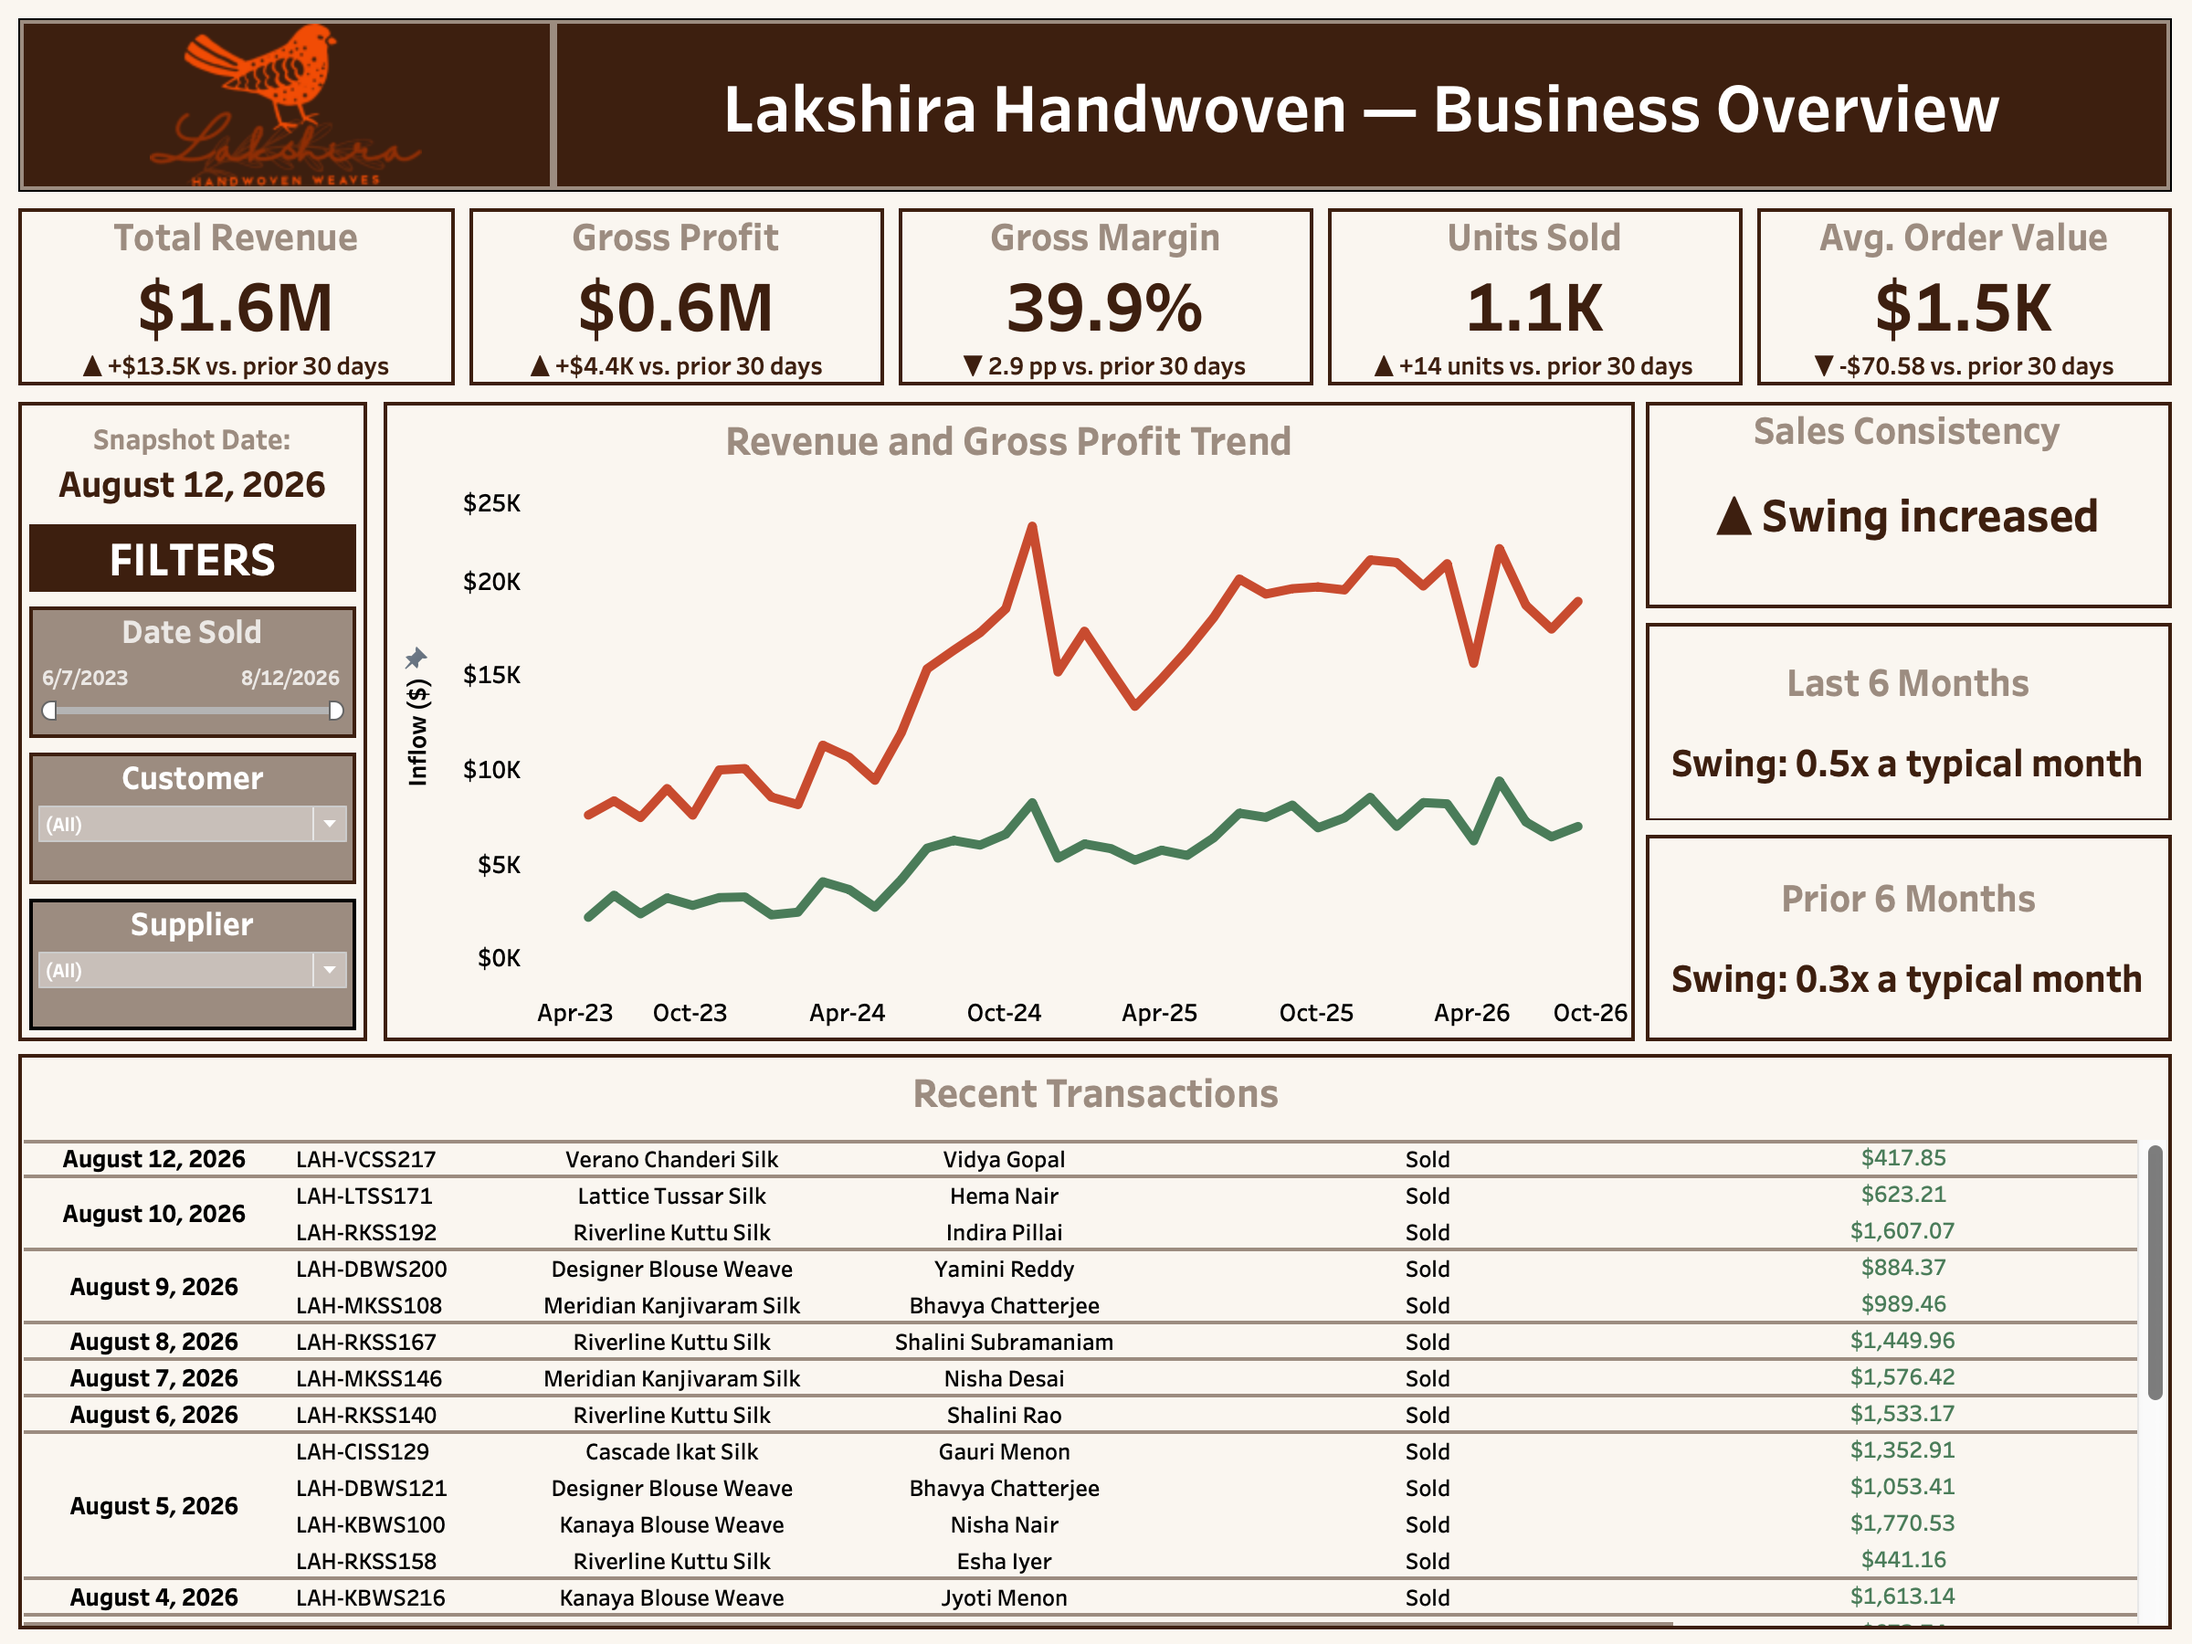
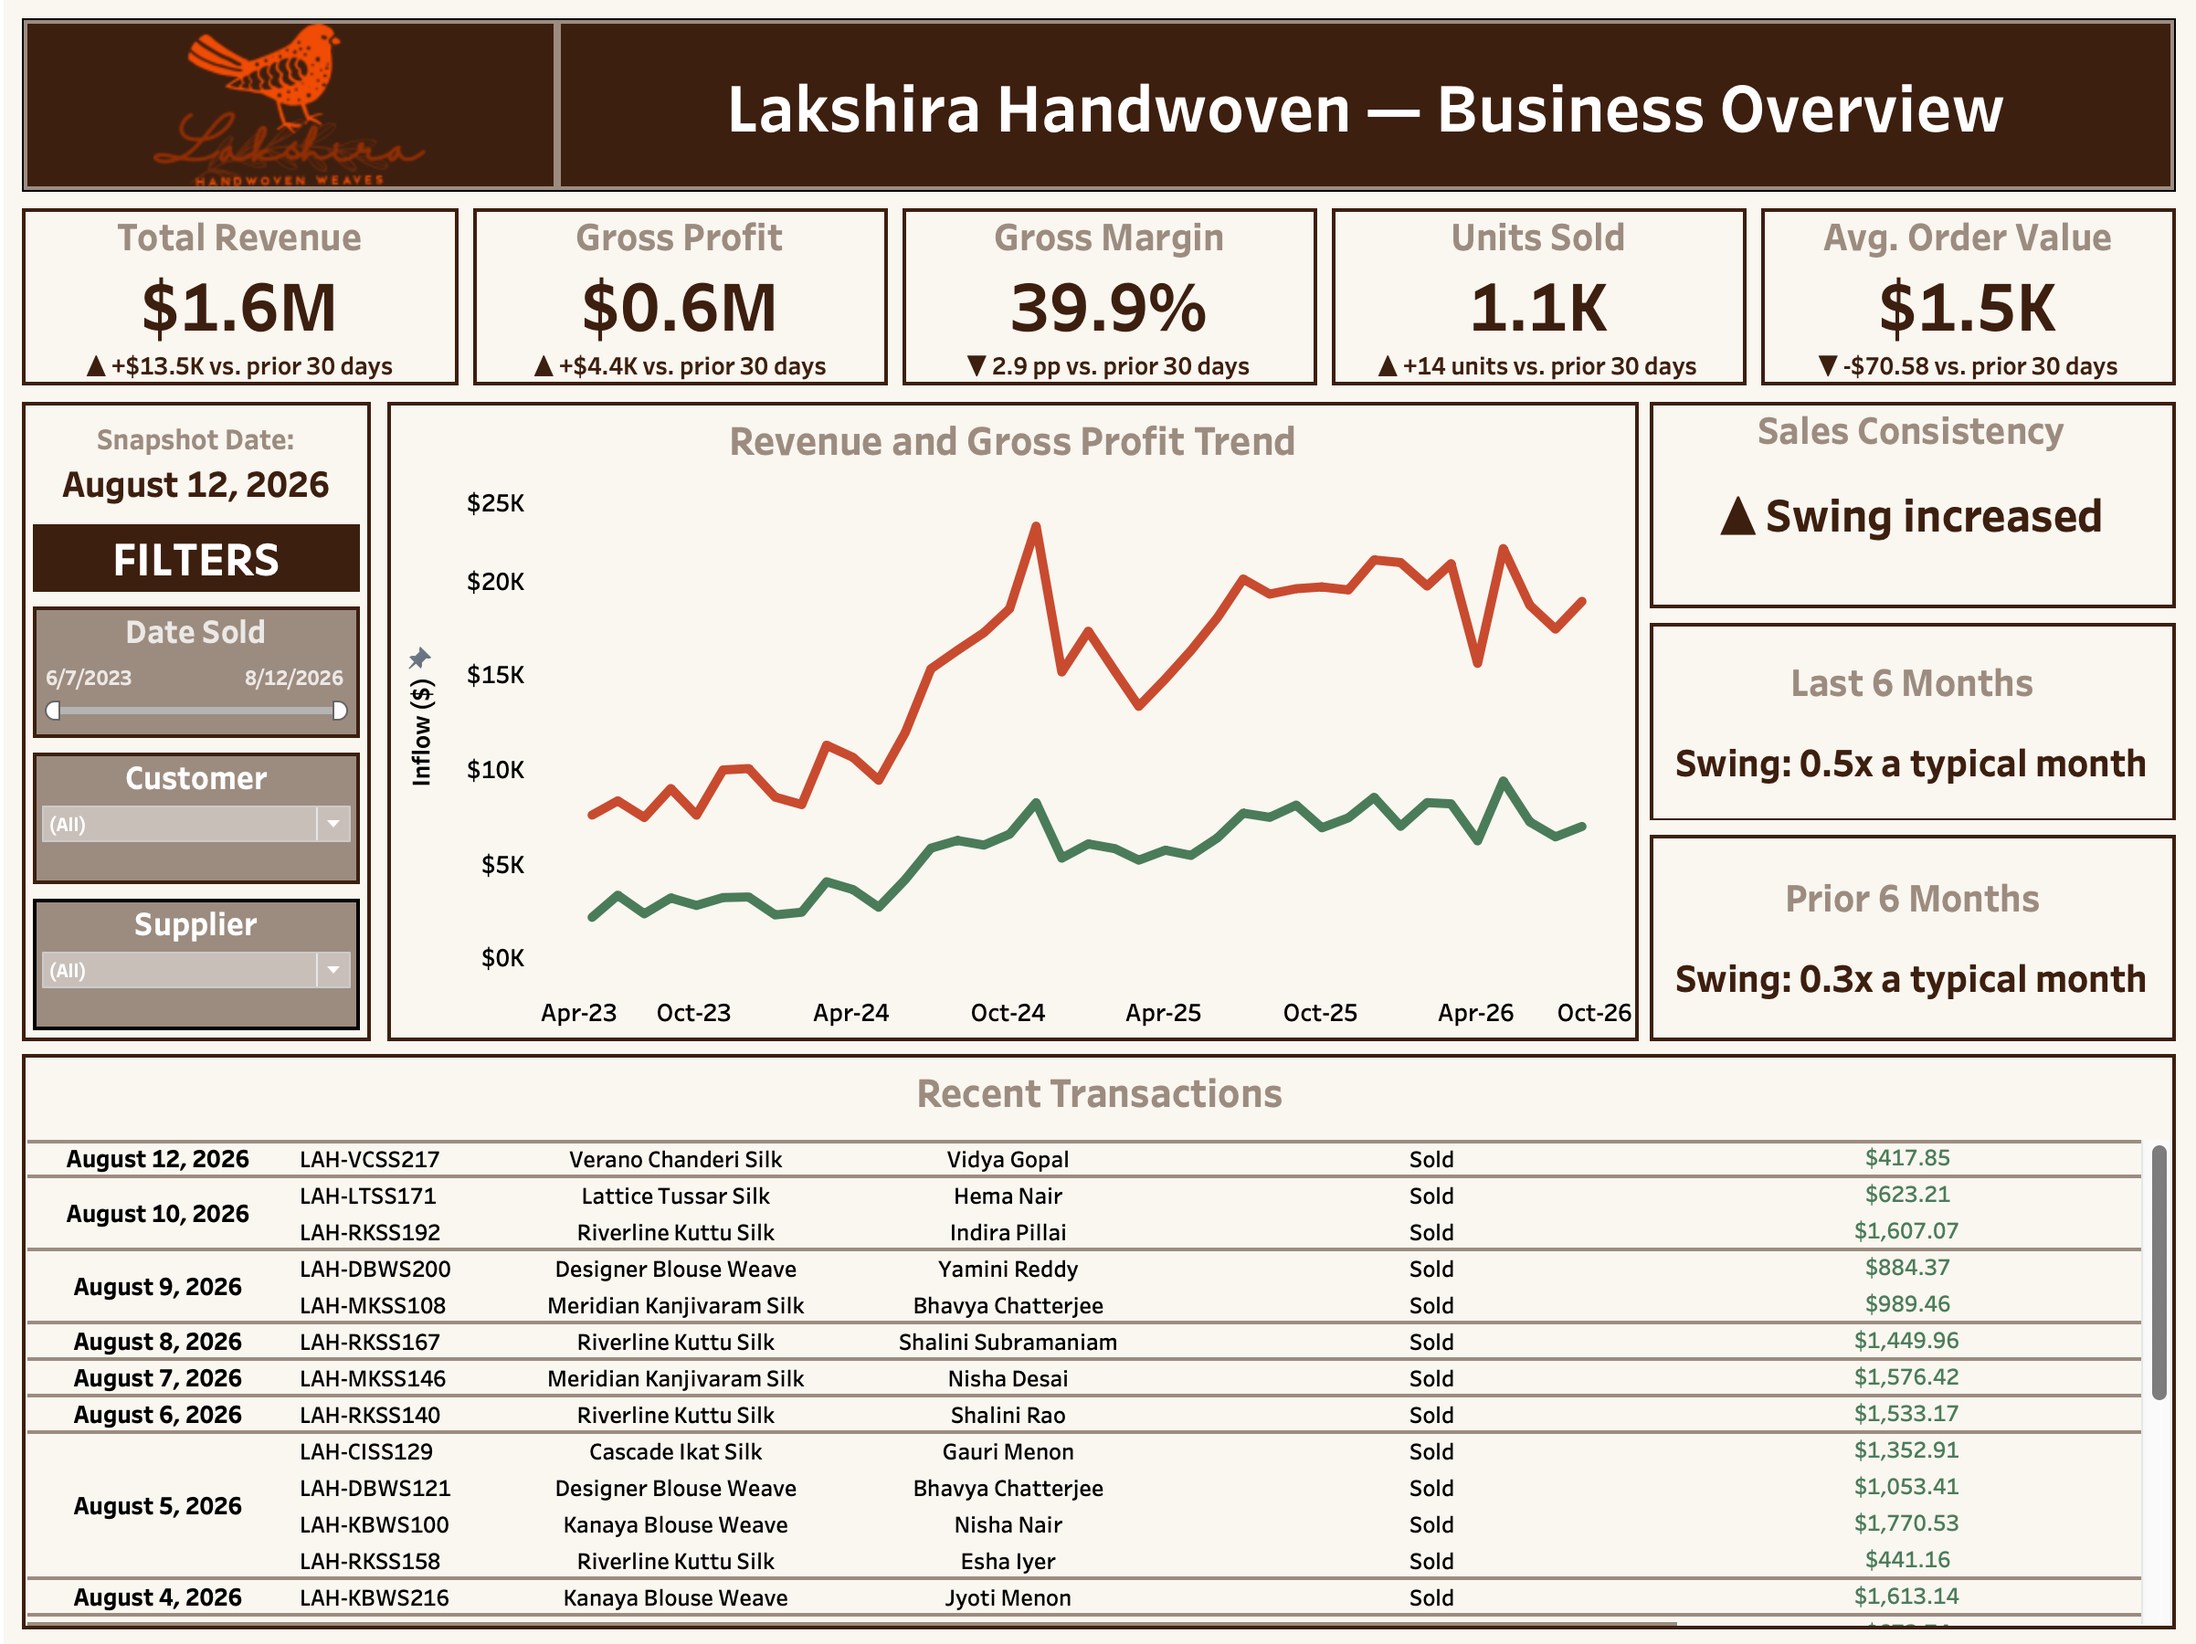
Fix repeat-customer calculation to use purchase occasions, not raw transaction count
Grouping by transaction_group_id instead of transaction_id prevents a single
bulk purchase from being counted as multiple repeat visits. Updates the
sanitized dashboard screenshots and documents the bug in the validation
methodology writeup.

diff --git a/docs/BUSINESS_INTELLIGENCE_ARCHITECTURE.md b/docs/BUSINESS_INTELLIGENCE_ARCHITECTURE.md
@@ -19,6 +19,7 @@ No KPI on this dashboard was trusted because Tableau displayed it. Every figure 
 - A cached extract that kept showing outdated figures after the data source refreshed, fixed only by forcing a full reconnect.
 - A filter that had silently inherited a "top 5 customers" scope from the worksheet it was duplicated from, narrowing an unrelated chart to a handful of customers instead of the full base.
 - A field read in as text instead of a number after a reconnect, turning a numeric comparison into an alphabetical one and producing results that looked plausible but were structurally wrong.
+- A repeat-customer flag built on raw transaction count, which misread a single bulk purchase (several sarees bought in one sitting) as several separate return visits, overstating genuine repeat behavior. Fixed by grouping units into shared purchase occasions first, then counting occasions rather than transaction rows.
 
 The discipline is the same one applied throughout the rest of this engagement: verify against the source of truth directly, irrespective of whether a tool's output looks correct or nothing visibly broke.
 
@@ -44,7 +45,7 @@ A five-field chain, comparing two 6-month periods (current vs. prior) to assess 
 
 ### Repeat Customers %
 
-A nested FIXED Level of Detail (LOD) expression: `{FIXED : COUNTD(repeat customers)} / {FIXED : COUNTD(all customers)}`, where "repeat" is itself a separate FIXED expression, `{FIXED [customer_name] : COUNTD(transaction_id)} > 1`, flagging any customer with more than one transaction. The repeat flag is calculated customer by customer. The two counts around it are calculated across the whole business at once, not per customer. Locking every part of this with FIXED keeps the final percentage constant: "38% repeat" always stays 38%, irrespective of what's filtered elsewhere on the page. Without FIXED, that same formula could quietly show a different number depending on what else happens to be in the view.
+A nested FIXED Level of Detail (LOD) expression: `{FIXED : COUNTD(repeat customers)} / {FIXED : COUNTD(all customers)}`, where "repeat" is itself a separate FIXED expression, `{FIXED [customer_name] : COUNTD(transaction_group_id)} > 1`, flagging any customer who has purchased on more than one distinct occasion, not more than one transaction row. That distinction is deliberate, not cosmetic: a customer buying five sarees in a single sitting is one occasion, not five, and counting raw transaction rows instead would flag every bulk buyer as "repeat" regardless of whether they ever actually returned. `transaction_group_id` links every unit bought by the same customer, on the same day, through the same sales channel, into one shared value, so the flag reflects genuine return visits rather than basket size. The repeat flag is calculated customer by customer. The two counts around it are calculated across the whole business at once, not per customer. Locking every part of this with FIXED keeps the final percentage constant regardless of what's filtered elsewhere on the page; without it, that same formula could quietly show a different number depending on what else happens to be in the view.
 
 ### Supplier vs. Overall Sell-Through Gap
 
